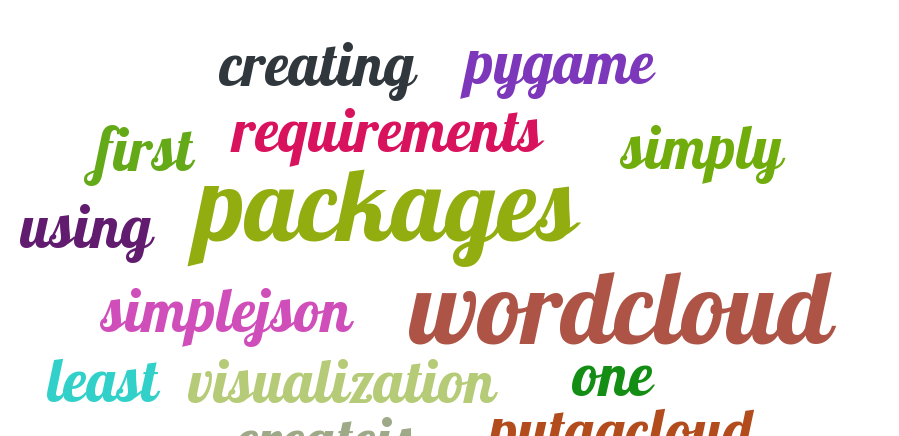
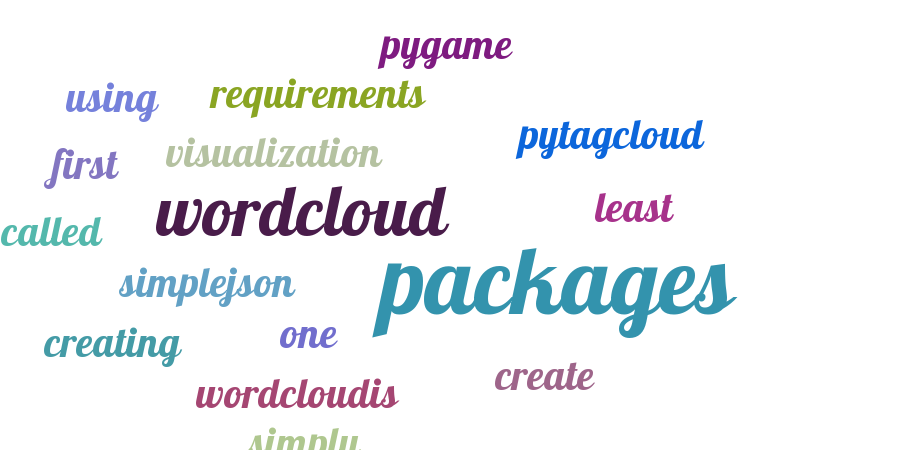
changes

Changed region(s): [[0.0, 0.0596, 0.9344, 0.9243], [0.5295, 0.9243, 0.8409, 1.0], [0.2492, 0.9541, 0.4672, 1.0]]

diff --git a/wordcloud.py b/wordcloud.py
@@ -5,13 +5,14 @@ from pytagcloud.lang.counter import get_tag_counts
 
 from pytagcloud import create_tag_image, create_html_data, make_tags, LAYOUT_HORIZONTAL, LAYOUTS, LAYOUT_MIX, LAYOUT_VERTICAL, LAYOUT_MOST_HORIZONTAL, LAYOUT_MOST_VERTICAL
 
-YOUR_TEXT = "There are at least 2 packages for creating wordcloud visualization, first to create\
-is simply wordcloud, the other one pytagcloud using pygame and simplejson packages as requirements"
+YOUR_TEXT = "There are at least 2 packages for creating wordcloud visualization, first of the packages to create a wordcloud\
+is simply called wordcloud, the other one pytagcloud using pygame and simplejson packages as requirements"
 
-tags = make_tags(get_tag_counts(YOUR_TEXT), maxsize=60)
+tags = make_tags(get_tag_counts(YOUR_TEXT), maxsize=70)
 
 create_tag_image(tags, 'cloud_large.png', size=(900, 600), fontname='Lobster', layout=LAYOUT_HORIZONTAL) #fonts on GitHub/pytagcloud/fonts
 
 import webbrowser
 webbrowser.open('cloud_large.png') # see results
 
+#https://docs.python.org/2/library/functions.html#abs
